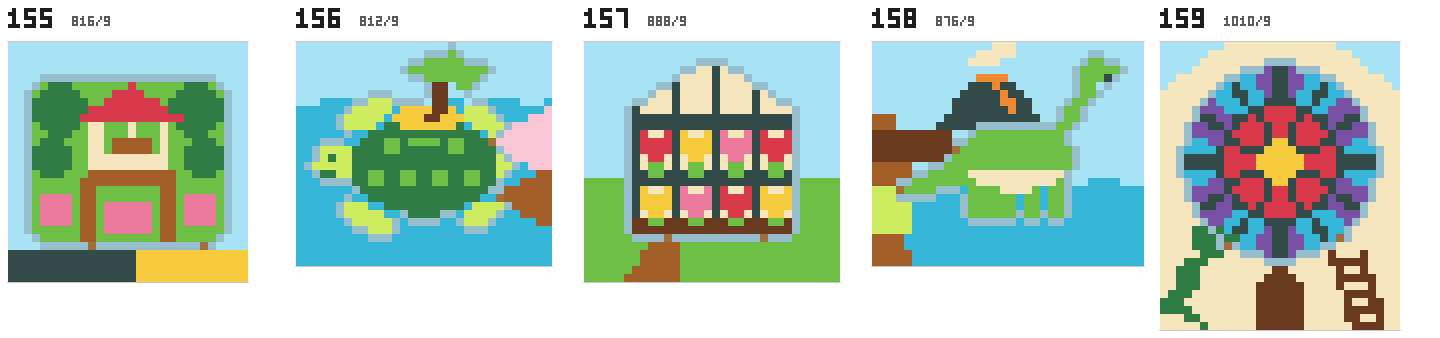
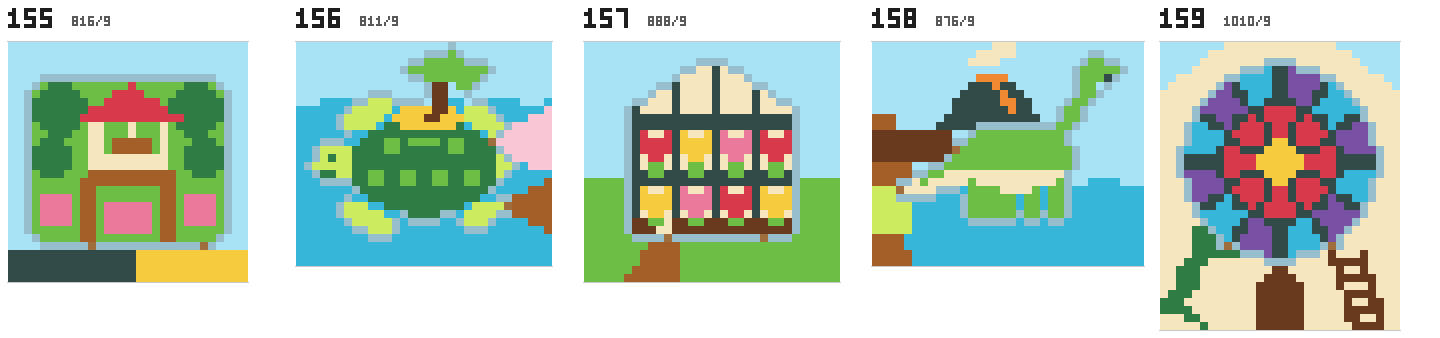
Pictures P0156-P0159 v2: each bridge lands on a colour of its own
Still drafts. The turtle's lower bridge lands on its rear flipper instead of
a water pocket, the greenhouse's left door opens onto a pale aisle, the
diplodocus's tail is pale underneath to its tip, and the rose window has one
colour a pane between the leading, with the ivy and the ladder reaching
their sites. The two bridges of every picture now land on different colours,
so the queue can make one of them better.

Claude-Session: https://claude.ai/code/session_015MFFqpKVAaPopMAf2NPWry

diff --git a/content/rounds/experiments/contour-bridges/rose.py b/content/rounds/experiments/contour-bridges/rose.py
@@ -33,7 +33,7 @@ def rose(x,y):
         return 'D' if spoke(a,8,22.5)*math.pi/180*r<=.5 else 'R'
     if r<=7.9: return 'D'
     if spoke(a,12)*math.pi/180*r<=.6: return 'D'
-    return 'B' if int(((a+15)%360)//30)%2==0 else 'V'
+    return 'B' if int(a//30)%2==0 else 'V'          # one colour a pane between the leading
 for y in range(H):
     for x in range(W):
         if far[y][x]: g[y][x]=rose(x+.5,y+.5)
@@ -44,13 +44,14 @@ def ivy(x,y):
     stem=abs(x-sx)<=.8
     leaf=any(math.hypot(x-(sx+s*1.6),y-yy)<=1.15 for s,yy in [(1,25.5),(-1,28),(1,30.5),(-1,33),(1,23.7)])
     return stem or leaf
-fill(ivy,'M')
-fill(lambda x,y:24<=y<=26.2 and 4<=x<=9.6,'M')           # the vine reaches along under the window
+near=[[not f for f in r] for r in far]
+fill(ivy,'M',near)
+fill(lambda x,y:24<=y<=27.2 and 4<=x<=9.6,'M',near)      # the vine reaches along under the window
 # the ladder: two rails leaning from the ground to the window's lower right, rungs between them
 def rail(x,y,x0):
-    return abs(x-(x0+(y-26)*0.28))<=.55 and y>=25.6
+    return abs(x-(x0+(y-26)*0.28))<=.55 and y>=25.9
 fill(lambda x,y:rail(x,y,21.6) or rail(x,y,25.2) or (y>=26 and int(y)%2==1 and 21.6+(y-26)*0.28<=x<=25.2+(y-26)*0.28),'E')
 # the church door under the window: a pointed wooden arch
 fill(lambda x,y:abs(x-15)<=3.2 and (y>=31 or (y>=28.4 and abs(x-15)<=3.2-(31-y)*1.25+0.6)),'E')
-rows,anchors=finish(g,far,[('bottom',8),('bottom',22)],fill=None)
+rows,anchors=finish(g,far,[('bottom',8),('bottom',21)],fill=None)
 json.dump({'rows':rows},sys.stdout)

diff --git a/content/rounds/experiments/contour-bridges/turtle.py b/content/rounds/experiments/contour-bridges/turtle.py
@@ -1,6 +1,6 @@
 # L33 «Черепаха-остров» (Морские и пресноводные обитатели, motif: черепахи): a giant sea turtle swimming left with a tiny
 # island on its shell — a sand mound and a palm tree. The turtle with its island is outlined (17 §8); the bridges are
-# planks from the right, from a pink coral reef and from a sandbank, onto the turtle's back (both cross left).
+# planks from the right, from a pink coral reef onto the shell and from a sandbank onto the rear flipper (both cross left).
 import math,json,sys
 sys.path.insert(0,'.')
 from contour import finish,edge_site
@@ -36,7 +36,7 @@ fill(lambda x,y:trunk(x,y),'E',far)
 fill(lambda x,y:leaves(x,y),'G',far)
 # eye and smile
 for (x,y) in [(4,14),(3,16),(4,16)]: g[y][x]='M'
-rows,anchors=finish(g,far,[('right',12),('right',19)],fill=None)
+rows,anchors=finish(g,far,[('right',12),('right',20)],fill=None)
 # approaches: a pink coral reef round the upper anchor, a sandbank round the lower one
 rows=[list(r) for r in rows]
 (ax1,ay1),(ax2,ay2)=anchors

diff --git a/content/rounds/experiments/contour-bridges/greenhouse.py b/content/rounds/experiments/contour-bridges/greenhouse.py
@@ -22,7 +22,7 @@ for y in range(H):
         if house(x+.5,y+.5) or roof(x+.5,y+.5): far[y][x]=True
 fill(lambda x,y:True,'C',far)                          # the glass panes (pale)
 fill(lambda x,y:abs((x-6)%5)<=.5 or abs(y-10)<=.5 or abs(y-17)<=.5,'D',far)   # the frame bars
-fill(lambda x,y:y>=22.5,'E',far)                       # soil
+fill(lambda x,y:y>=22.5 and not 9<=x<=11,'E',far)      # soil, a pale aisle under the left door
 # tulips, one in each pane: a cup with a notch over a two-cell stem; heads red, yellow and pink
 TUL=['X..X','XXXX','XXXX','.XX.']
 def tulip(x0,y0,c,stem):

diff --git a/content/rounds/experiments/contour-bridges/dino.py b/content/rounds/experiments/contour-bridges/dino.py
@@ -33,6 +33,7 @@ for y in range(H):
         if body(X,Y) or neck(X,Y) or head(X,Y) or tail(X,Y) or legs(X,Y): far[y][x]=True
 fill(lambda x,y:True,'G',far)
 fill(lambda x,y:body(x,y) and y>=15.6,'C',far)                      # pale belly
+fill(lambda x,y:tail(x,y) and not body(x,y) and (y>=15.5+(12-x)*.42-.1 or x<=6.2),'C',far)   # and the tail's underside, pale to the tip
 g[4][29]='D'                                                       # the eye
 rows,anchors=finish(g,far,[('left',18),('left',13)],fill=None)
 json.dump({'rows':rows},sys.stdout)

diff --git a/content/rounds/pictures/sheets/batch-0155-contour-bridges.md b/content/rounds/pictures/sheets/batch-0155-contour-bridges.md
@@ -5,7 +5,7 @@
 | № | Название | Тема | Размер | Клеток | Цветов | Объёмы | Для уровня | Статус |
 |---:|---|---|---|---:|---:|---|---:|---|
 | 155 | Сквер с беседкой | bridge-contour | 30×30 | 816 | 9 | S 220 · G 177 · M 113 · D 64 · A 61 · P 56 · Y 56 · R 35 · C 34 | 23 | draft |
-| 156 | Черепаха-остров | bridge-contour | 32×28 | 812 | 9 | B 268 · S 181 · M 142 · L 74 · G 53 · K 36 · A 29 · Y 19 · E 10 | 33 | draft |
-| 157 | Теплица с тюльпанами | bridge-contour | 32×30 | 888 | 9 | S 274 · G 239 · D 122 · C 98 · R 36 · Y 36 · E 32 · A 27 · P 24 | 35 | draft |
-| 158 | Диплодок в озере | bridge-contour | 34×28 | 876 | 9 | S 308 · B 227 · G 145 · D 47 · E 39 · C 38 · A 37 · L 26 · O 9 | 43 | draft |
-| 159 | Роза собора | bridge-contour | 30×36 | 1010 | 9 | C 413 · D 139 · R 92 · V 88 · B 86 · E 77 · S 52 · M 39 · Y 24 | 50 | draft |
+| 156 | Черепаха-остров | bridge-contour | 32×28 | 811 | 9 | B 273 · S 181 · M 142 · L 74 · G 53 · K 36 · A 23 · Y 19 · E 10 | 33 | draft |
+| 157 | Теплица с тюльпанами | bridge-contour | 32×30 | 888 | 9 | S 274 · G 239 · D 122 · C 101 · R 36 · Y 36 · E 29 · A 27 · P 24 | 35 | draft |
+| 158 | Диплодок в озере | bridge-contour | 34×28 | 876 | 9 | S 308 · B 227 · G 132 · C 51 · D 47 · E 39 · A 37 · L 26 · O 9 | 43 | draft |
+| 159 | Роза собора | bridge-contour | 30×36 | 1010 | 9 | C 410 · D 140 · R 92 · B 88 · V 88 · E 77 · S 52 · M 39 · Y 24 | 50 | draft |
